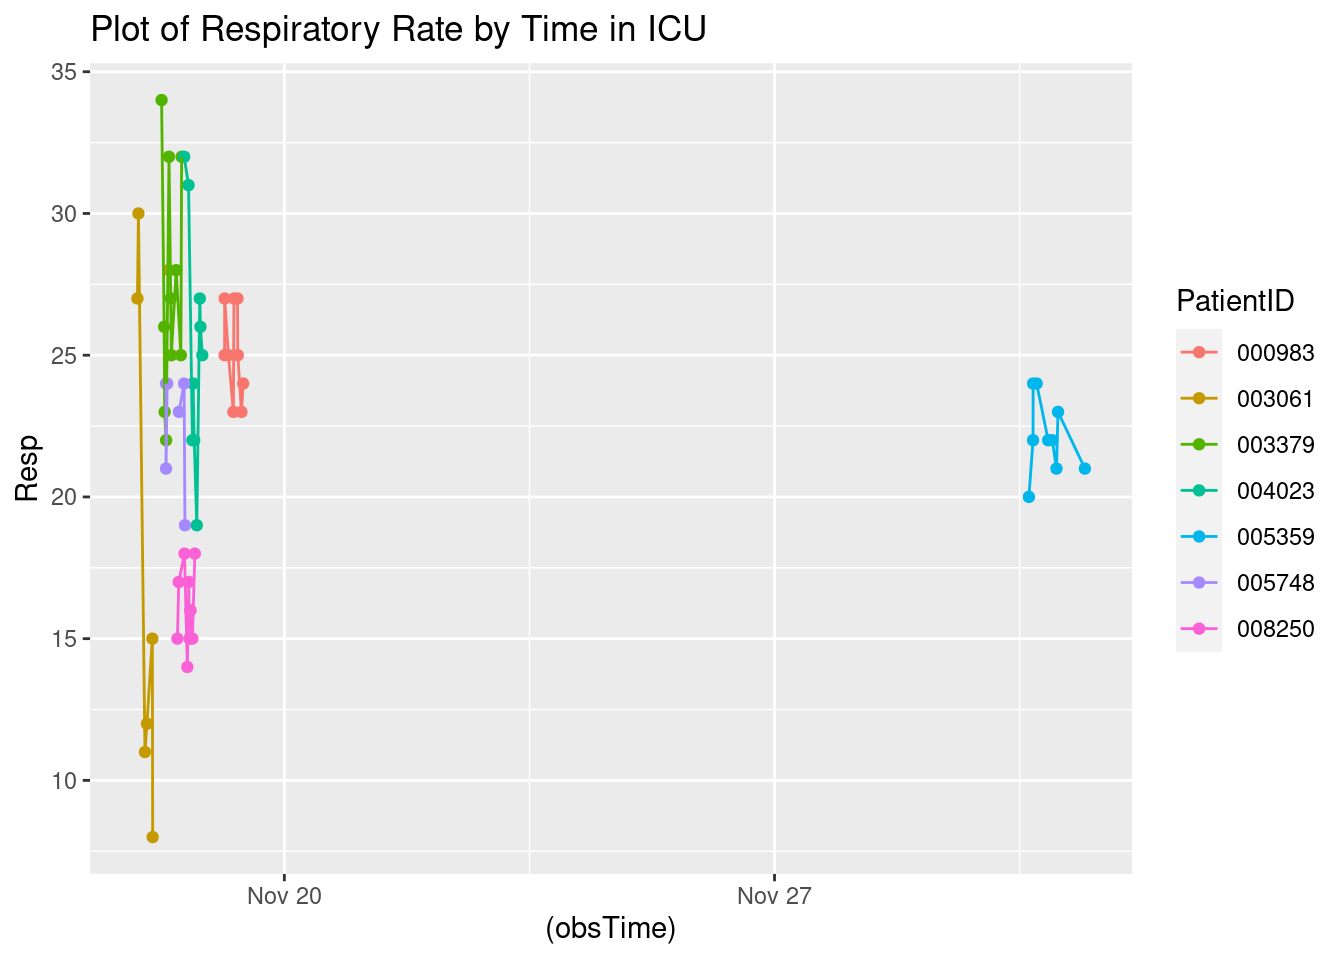
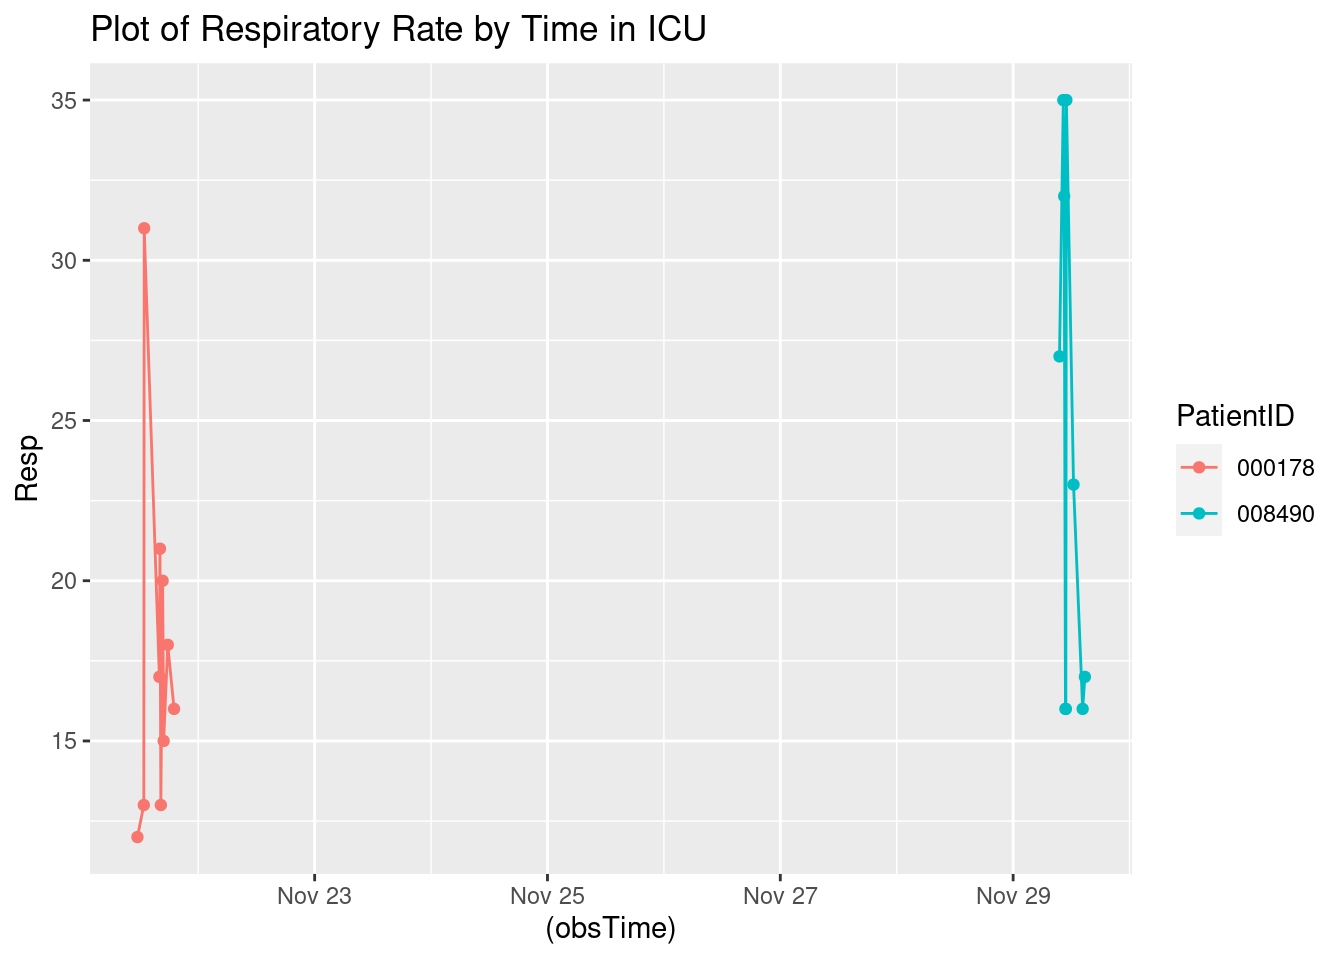
Updated report

diff --git a/A7.html b/A7.html
@@ -114,7 +114,7 @@ pre > code.sourceCode > span > a:first-child::before { text-decoration: underlin
 </div>
 <div class="sourceCode cell-code" id="cb4"><pre class="sourceCode r code-with-copy"><code class="sourceCode r"><span id="cb4-1"><a href="#cb4-1" aria-hidden="true" tabindex="-1"></a><span class="fu">toc</span>()</span></code><button title="Copy to Clipboard" class="code-copy-button"><i class="bi"></i></button></pre></div>
 <div class="cell-output cell-output-stdout">
-<pre><code>3.617 sec elapsed</code></pre>
+<pre><code>3.089 sec elapsed</code></pre>
 </div>
 <div class="sourceCode cell-code" id="cb6"><pre class="sourceCode r code-with-copy"><code class="sourceCode r"><span id="cb6-1"><a href="#cb6-1" aria-hidden="true" tabindex="-1"></a><span class="fu">tic</span>()</span>
 <span id="cb6-2"><a href="#cb6-2" aria-hidden="true" tabindex="-1"></a>test1<span class="ot">=</span><span class="fu">makeSepsisDataset</span>(<span class="at">n=</span><span class="dv">50</span>,<span class="at">read_fn =</span> <span class="st">"read_delim"</span>)</span>
@@ -124,7 +124,7 @@ pre > code.sourceCode > span > a:first-child::before { text-decoration: underlin
 </div>
 <div class="sourceCode cell-code" id="cb8"><pre class="sourceCode r code-with-copy"><code class="sourceCode r"><span id="cb8-1"><a href="#cb8-1" aria-hidden="true" tabindex="-1"></a><span class="fu">toc</span>()</span></code><button title="Copy to Clipboard" class="code-copy-button"><i class="bi"></i></button></pre></div>
 <div class="cell-output cell-output-stdout">
-<pre><code>12.871 sec elapsed</code></pre>
+<pre><code>13.309 sec elapsed</code></pre>
 </div>
 <div class="sourceCode cell-code" id="cb10"><pre class="sourceCode r code-with-copy"><code class="sourceCode r"><span id="cb10-1"><a href="#cb10-1" aria-hidden="true" tabindex="-1"></a><span class="co"># n=100</span></span>
 <span id="cb10-2"><a href="#cb10-2" aria-hidden="true" tabindex="-1"></a><span class="fu">tic</span>()</span>
@@ -135,7 +135,7 @@ pre > code.sourceCode > span > a:first-child::before { text-decoration: underlin
 </div>
 <div class="sourceCode cell-code" id="cb12"><pre class="sourceCode r code-with-copy"><code class="sourceCode r"><span id="cb12-1"><a href="#cb12-1" aria-hidden="true" tabindex="-1"></a><span class="fu">toc</span>()</span></code><button title="Copy to Clipboard" class="code-copy-button"><i class="bi"></i></button></pre></div>
 <div class="cell-output cell-output-stdout">
-<pre><code>6.54 sec elapsed</code></pre>
+<pre><code>5.162 sec elapsed</code></pre>
 </div>
 <div class="sourceCode cell-code" id="cb14"><pre class="sourceCode r code-with-copy"><code class="sourceCode r"><span id="cb14-1"><a href="#cb14-1" aria-hidden="true" tabindex="-1"></a><span class="fu">tic</span>()</span>
 <span id="cb14-2"><a href="#cb14-2" aria-hidden="true" tabindex="-1"></a>test1<span class="ot">=</span><span class="fu">makeSepsisDataset</span>(<span class="at">n=</span><span class="dv">100</span>,<span class="at">read_fn =</span> <span class="st">"read_delim"</span>)</span>
@@ -145,7 +145,7 @@ pre > code.sourceCode > span > a:first-child::before { text-decoration: underlin
 </div>
 <div class="sourceCode cell-code" id="cb16"><pre class="sourceCode r code-with-copy"><code class="sourceCode r"><span id="cb16-1"><a href="#cb16-1" aria-hidden="true" tabindex="-1"></a><span class="fu">toc</span>()</span></code><button title="Copy to Clipboard" class="code-copy-button"><i class="bi"></i></button></pre></div>
 <div class="cell-output cell-output-stdout">
-<pre><code>23.074 sec elapsed</code></pre>
+<pre><code>18.752 sec elapsed</code></pre>
 </div>
 <div class="sourceCode cell-code" id="cb18"><pre class="sourceCode r code-with-copy"><code class="sourceCode r"><span id="cb18-1"><a href="#cb18-1" aria-hidden="true" tabindex="-1"></a><span class="co"># n=500</span></span>
 <span id="cb18-2"><a href="#cb18-2" aria-hidden="true" tabindex="-1"></a><span class="fu">tic</span>()</span>
@@ -156,7 +156,7 @@ pre > code.sourceCode > span > a:first-child::before { text-decoration: underlin
 </div>
 <div class="sourceCode cell-code" id="cb20"><pre class="sourceCode r code-with-copy"><code class="sourceCode r"><span id="cb20-1"><a href="#cb20-1" aria-hidden="true" tabindex="-1"></a><span class="fu">toc</span>()</span></code><button title="Copy to Clipboard" class="code-copy-button"><i class="bi"></i></button></pre></div>
 <div class="cell-output cell-output-stdout">
-<pre><code>33.757 sec elapsed</code></pre>
+<pre><code>25.942 sec elapsed</code></pre>
 </div>
 <div class="sourceCode cell-code" id="cb22"><pre class="sourceCode r code-with-copy"><code class="sourceCode r"><span id="cb22-1"><a href="#cb22-1" aria-hidden="true" tabindex="-1"></a><span class="fu">tic</span>()</span>
 <span id="cb22-2"><a href="#cb22-2" aria-hidden="true" tabindex="-1"></a>test1<span class="ot">=</span><span class="fu">makeSepsisDataset</span>(<span class="at">n=</span><span class="dv">500</span>,<span class="at">read_fn =</span> <span class="st">"read_delim"</span>)</span>
@@ -166,7 +166,7 @@ pre > code.sourceCode > span > a:first-child::before { text-decoration: underlin
 </div>
 <div class="sourceCode cell-code" id="cb24"><pre class="sourceCode r code-with-copy"><code class="sourceCode r"><span id="cb24-1"><a href="#cb24-1" aria-hidden="true" tabindex="-1"></a><span class="fu">toc</span>()</span></code><button title="Copy to Clipboard" class="code-copy-button"><i class="bi"></i></button></pre></div>
 <div class="cell-output cell-output-stdout">
-<pre><code>116.255 sec elapsed</code></pre>
+<pre><code>91.213 sec elapsed</code></pre>
 </div>
 </div>
 <p><strong>Task 3</strong></p>
@@ -192,7 +192,7 @@ pre > code.sourceCode > span > a:first-child::before { text-decoration: underlin
 <span id="cb28-4"><a href="#cb28-4" aria-hidden="true" tabindex="-1"></a></span>
 <span id="cb28-5"><a href="#cb28-5" aria-hidden="true" tabindex="-1"></a><span class="fu">Sys.time</span>()</span></code><button title="Copy to Clipboard" class="code-copy-button"><i class="bi"></i></button></pre></div>
 <div class="cell-output cell-output-stdout">
-<pre><code>[1] "2023-11-17 18:24:57 UTC"</code></pre>
+<pre><code>[1] "2023-11-17 19:16:52 UTC"</code></pre>
 </div>
 <div class="sourceCode cell-code" id="cb30"><pre class="sourceCode r code-with-copy"><code class="sourceCode r"><span id="cb30-1"><a href="#cb30-1" aria-hidden="true" tabindex="-1"></a>dfnew <span class="ot">&lt;-</span> df <span class="sc">%&gt;%</span></span>
 <span id="cb30-2"><a href="#cb30-2" aria-hidden="true" tabindex="-1"></a>  <span class="fu">subset</span>(SepsisLabel<span class="sc">==</span><span class="dv">1</span>)</span>
@@ -221,67 +221,22 @@ pre > code.sourceCode > span > a:first-child::before { text-decoration: underlin
 </thead>
 <tbody>
 <tr class="odd">
-<td style="text-align: left;">000983</td>
-<td style="text-align: right;">40</td>
-<td style="text-align: right;">78</td>
-<td style="text-align: right;">NA</td>
-<td style="text-align: right;">24</td>
-<td style="text-align: right;">1</td>
-<td style="text-align: left;">2023-11-19 09:52:17</td>
-</tr>
-<tr class="even">
-<td style="text-align: left;">003061</td>
-<td style="text-align: right;">16</td>
-<td style="text-align: right;">111</td>
-<td style="text-align: right;">37.67</td>
-<td style="text-align: right;">28</td>
-<td style="text-align: right;">1</td>
-<td style="text-align: left;">2023-11-18 08:21:22</td>
-</tr>
-<tr class="odd">
-<td style="text-align: left;">003379</td>
-<td style="text-align: right;">21</td>
-<td style="text-align: right;">85</td>
-<td style="text-align: right;">NA</td>
-<td style="text-align: right;">32</td>
-<td style="text-align: right;">1</td>
-<td style="text-align: left;">2023-11-18 12:47:47</td>
-</tr>
-<tr class="even">
-<td style="text-align: left;">004023</td>
-<td style="text-align: right;">26</td>
-<td style="text-align: right;">88</td>
-<td style="text-align: right;">NA</td>
-<td style="text-align: right;">25</td>
-<td style="text-align: right;">1</td>
-<td style="text-align: left;">2023-11-18 19:52:38</td>
-</tr>
-<tr class="odd">
-<td style="text-align: left;">005359</td>
-<td style="text-align: right;">328</td>
-<td style="text-align: right;">83</td>
-<td style="text-align: right;">NA</td>
-<td style="text-align: right;">21</td>
-<td style="text-align: right;">1</td>
-<td style="text-align: left;">2023-12-01 10:22:09</td>
-</tr>
-<tr class="even">
-<td style="text-align: left;">005748</td>
-<td style="text-align: right;">21</td>
-<td style="text-align: right;">81</td>
-<td style="text-align: right;">35.90</td>
-<td style="text-align: right;">19</td>
-<td style="text-align: right;">1</td>
-<td style="text-align: left;">2023-11-18 13:55:46</td>
-</tr>
-<tr class="odd">
-<td style="text-align: left;">008250</td>
-<td style="text-align: right;">23</td>
+<td style="text-align: left;">000178</td>
+<td style="text-align: right;">96</td>
 <td style="text-align: right;">102</td>
-<td style="text-align: right;">37.39</td>
-<td style="text-align: right;">18</td>
+<td style="text-align: right;">NA</td>
+<td style="text-align: right;">16</td>
 <td style="text-align: right;">1</td>
-<td style="text-align: left;">2023-11-18 17:19:24</td>
+<td style="text-align: left;">2023-11-21 19:01:02</td>
+</tr>
+<tr class="even">
+<td style="text-align: left;">008490</td>
+<td style="text-align: right;">284</td>
+<td style="text-align: right;">92</td>
+<td style="text-align: right;">36.61</td>
+<td style="text-align: right;">17</td>
+<td style="text-align: right;">1</td>
+<td style="text-align: left;">2023-11-29 14:47:27</td>
 </tr>
 </tbody>
 </table>
